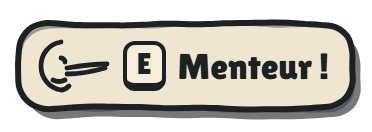
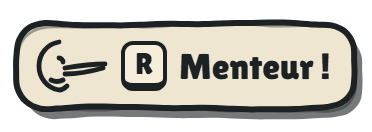
LIARS - R pour dire menteur, E pour poser, sans garde-fou ; l'invite montre le joueur accusable

diff --git a/scripts/hud/sprites.html b/scripts/hud/sprites.html
@@ -61,7 +61,7 @@ const SPRITES = {
     return [64, 64, h + "</div>"];
   },
   fleche: () => [28, 24, '<div class="arrow"></div>'],
-  menteur: () => [186, 66, `<div class="liar sk" data-graine="11" data-rayon="14">${NEZ}<span class="touche">E</span><span>Menteur !</span></div>`],
+  menteur: () => [186, 66, `<div class="liar sk" data-graine="11" data-rayon="14">${NEZ}<span class="touche">R</span><span>Menteur !</span></div>`],
   carton: () => [132, 98, '<div class="carton sk" data-graine="23" data-rayon="12"></div>'],
   texte: () => {
     const t = q.get("t") || "", taille = Number(q.get("taille") || 17), l = Number(q.get("l") || 110), h = Number(q.get("h") || 24);
